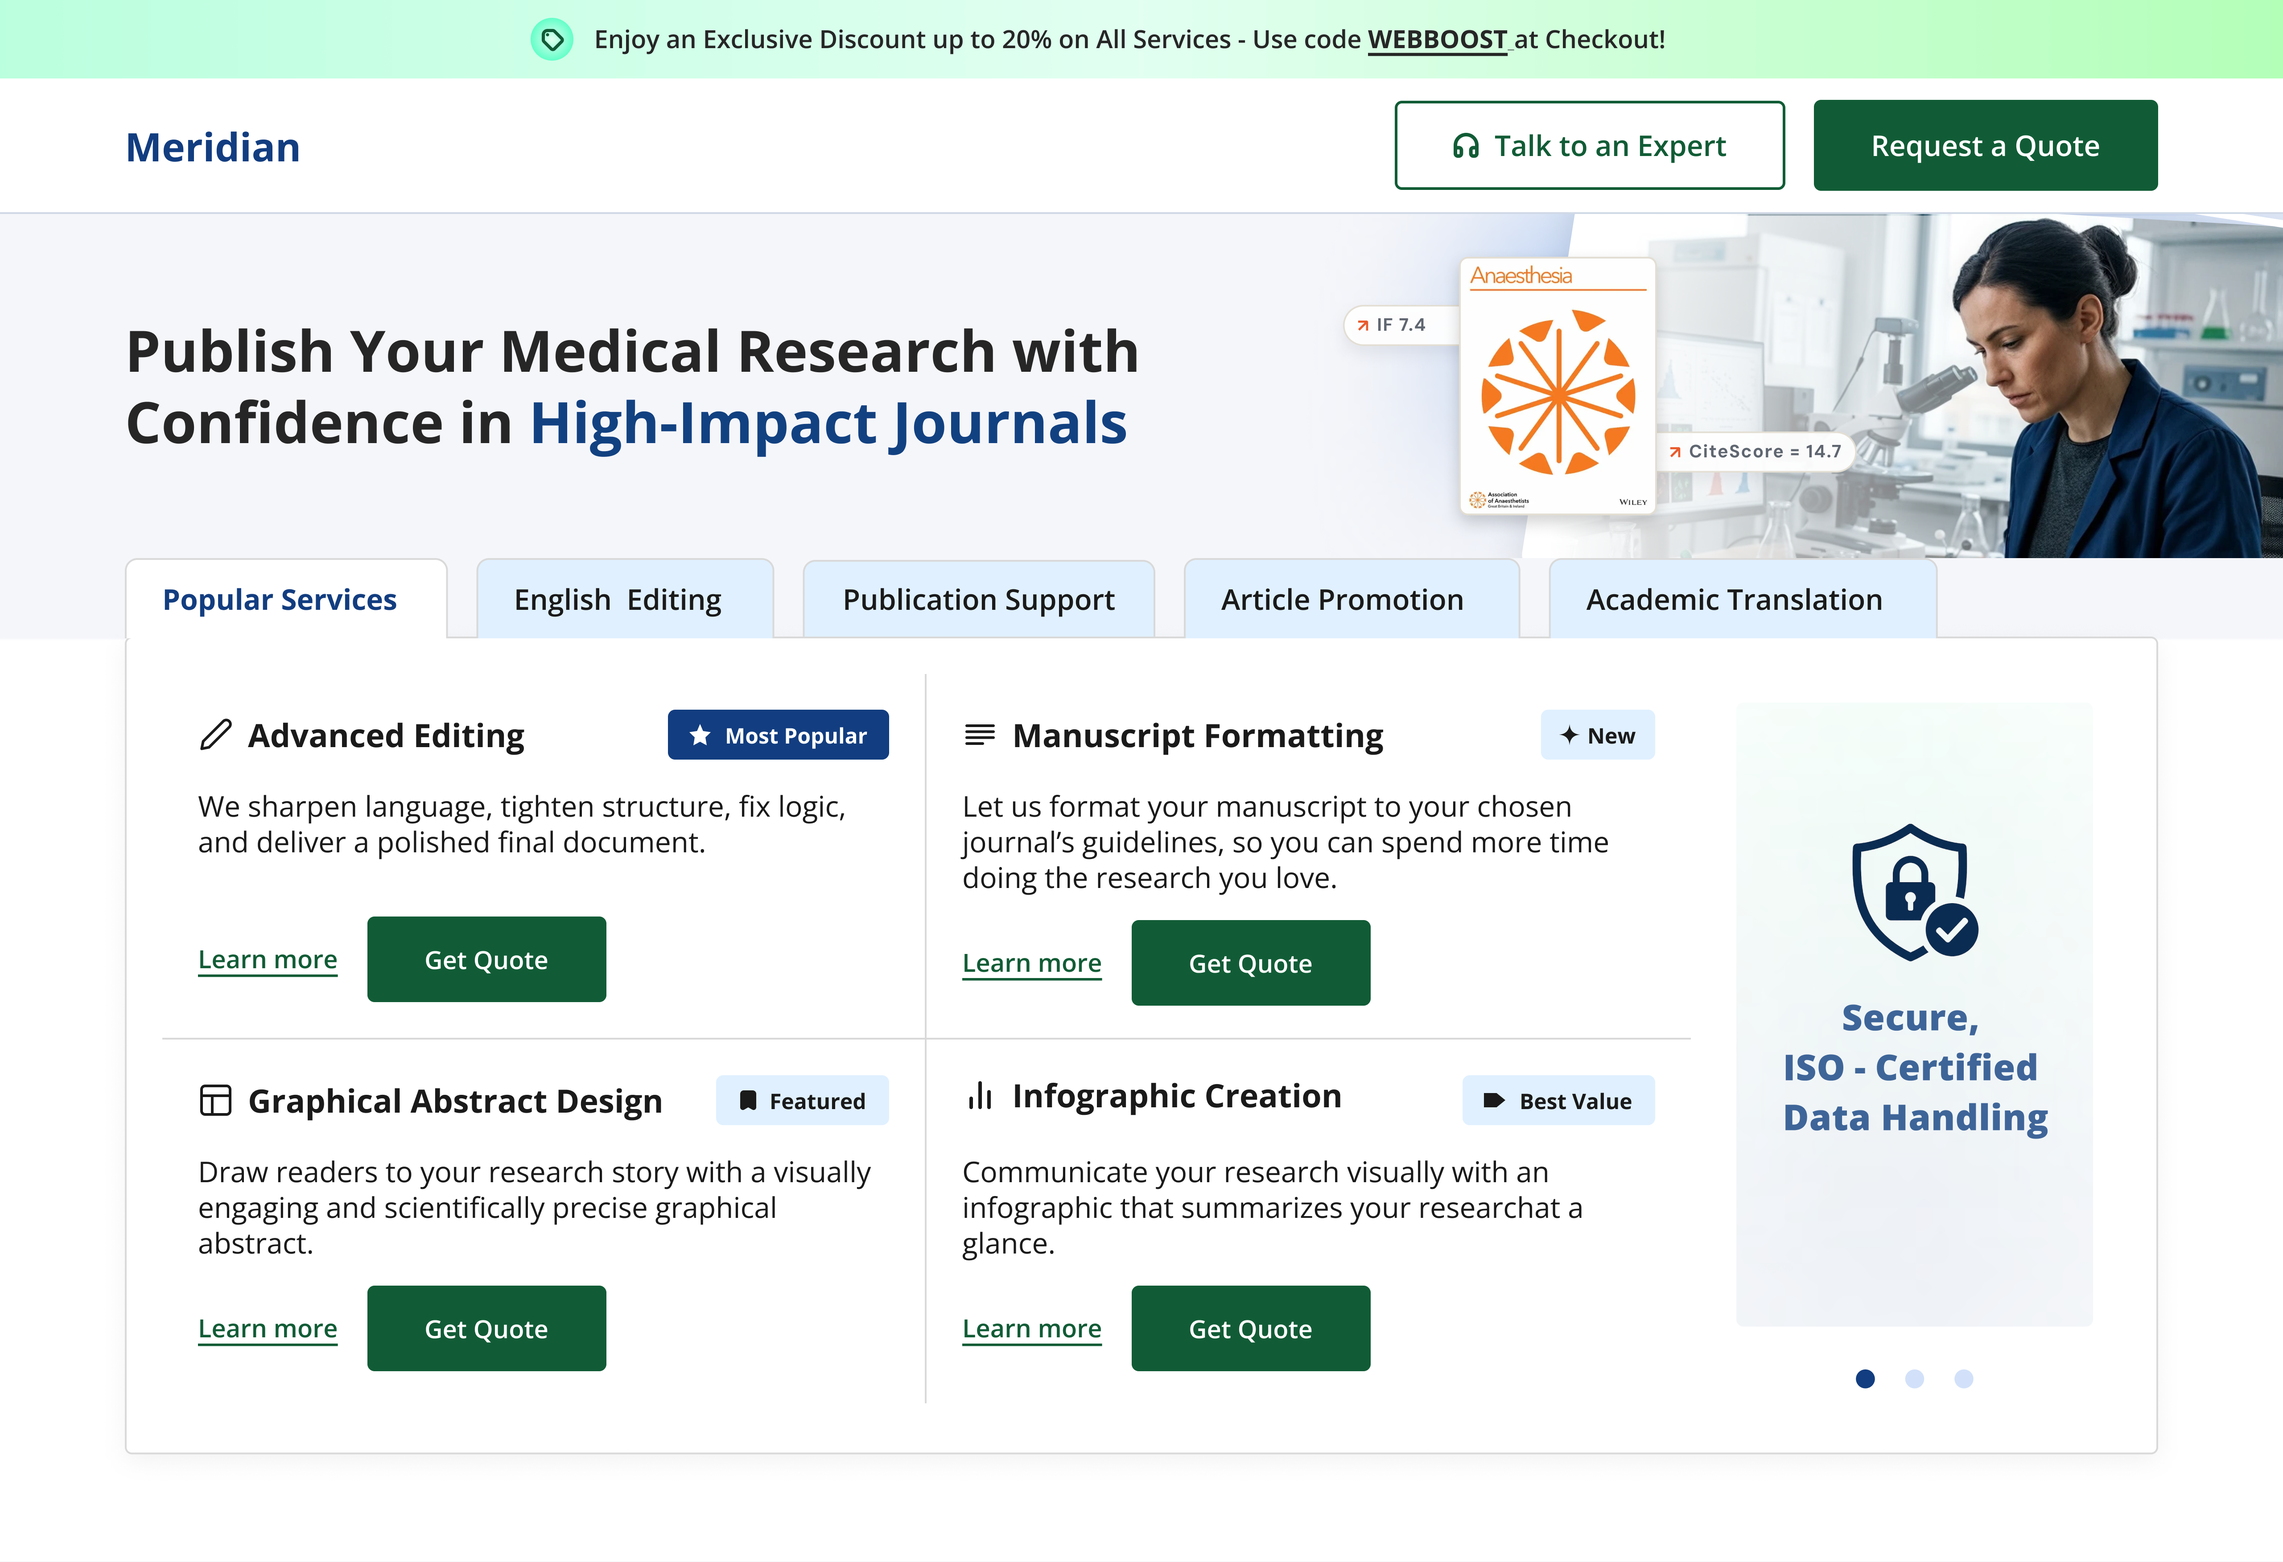
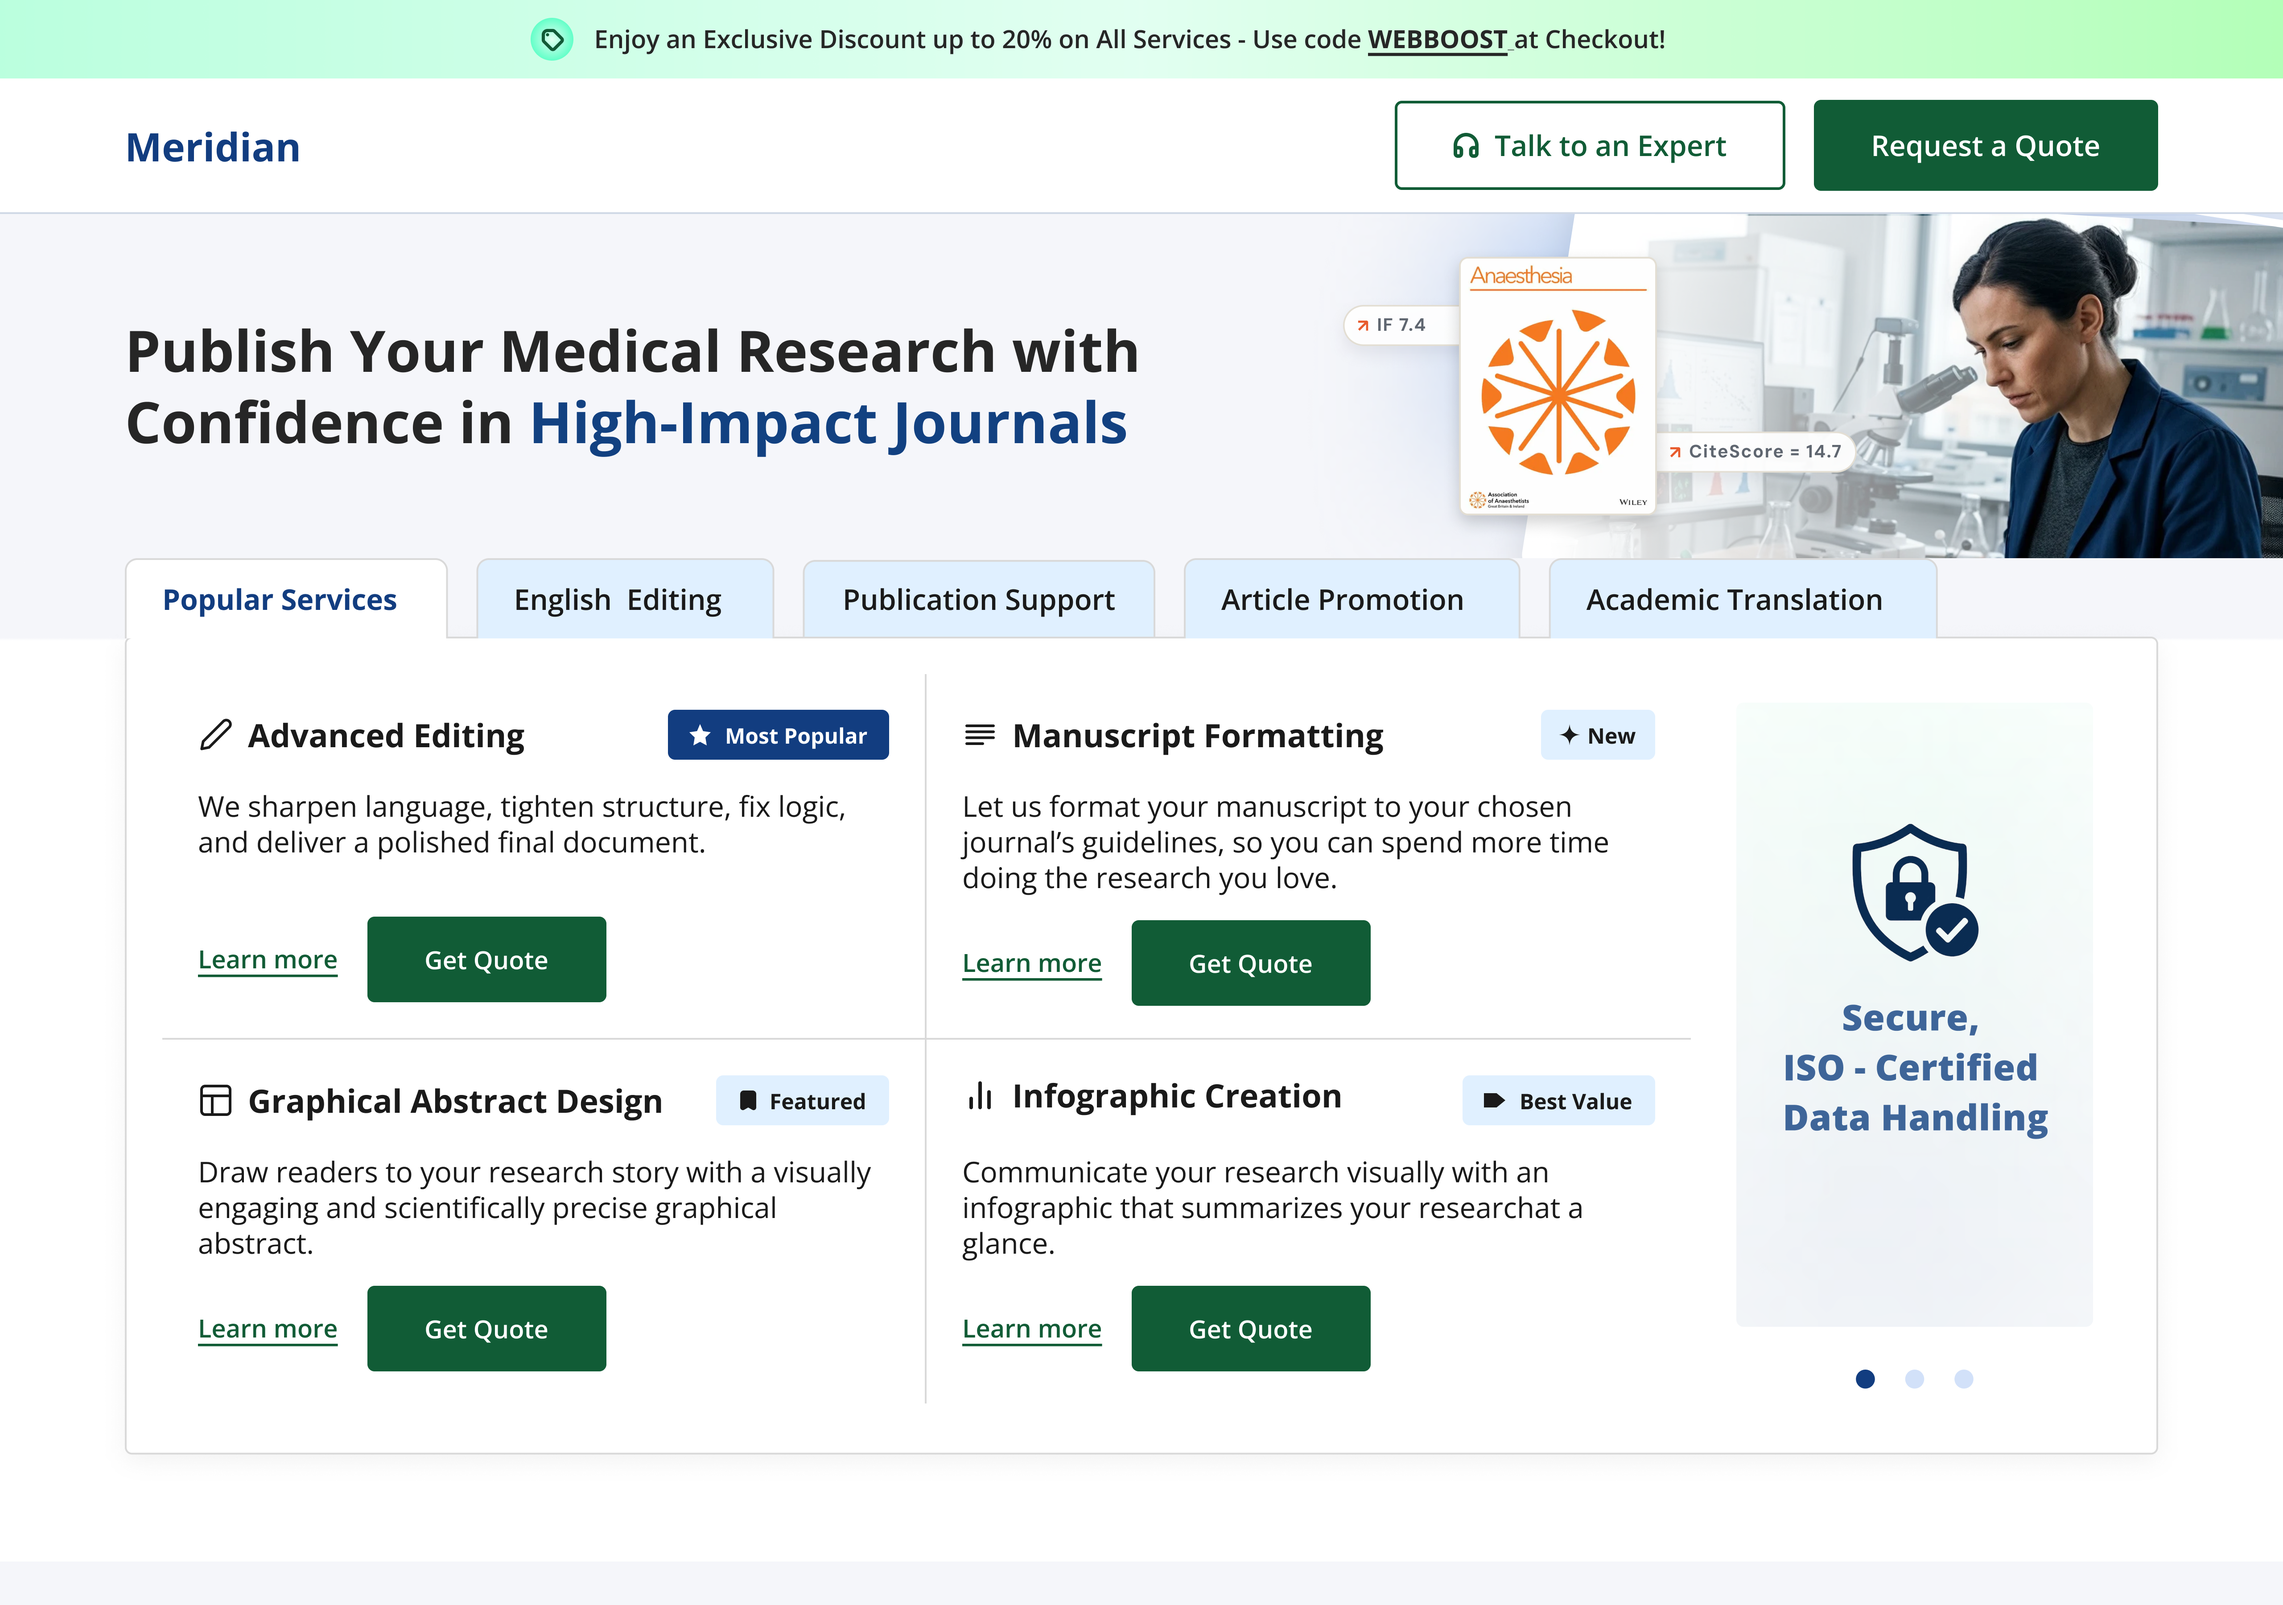
Remove Library/Paid/Organic pills from abstract

diff --git a/client/pages/Index.tsx b/client/pages/Index.tsx
@@ -81,7 +81,7 @@ export default function Index() {
 
     <div className="journey"><div><b>1</b><strong>Jul 3</strong><span>Kickoff</span><small>Brief, stakeholders, and success metrics</small></div><div><b>2</b><strong>Jul 5–7</strong><span>Diagnosis</span><small>Clarity review and fold mapping</small></div><div><b>3</b><strong>Jul 8–16</strong><span>Revision</span><small>Hero cut, tabs rebuilt, card grid shipped</small></div><div><b>4</b><strong>Jul 17–20</strong><span>Launch</span><small>Dev handoff and production release</small></div></div>
 
-    <section className="abstract"><div className="doc-row"><aside className="margin-col"><span className="sec-num">Abstract</span></aside><div className="content-col"><div className="abstract-box"><strong>The problem.</strong> The page opened with a big hero. Services were hidden below it, behind gray service tabs that made one option look already chosen. Most visitors never scrolled past this first screen.<br /><br /><span className="abstract-sources"><span>Library</span><span>Paid</span><span>Organic</span></span><br /><br /><strong>The fix.</strong> Rebuilt the first fold to lead with services, equalized tab weight, and shipped a dev-ready page in under a month.</div></div></div></section>
+    <section className="abstract"><div className="doc-row"><aside className="margin-col"><span className="sec-num">Abstract</span></aside><div className="content-col"><div className="abstract-box"><strong>The problem.</strong> The page opened with a big hero. Services were hidden below it, behind gray service tabs that made one option look already chosen. Most visitors never scrolled past this first screen.<br /><br /><strong>The fix.</strong> Rebuilt the first fold to lead with services, equalized tab weight, and shipped a dev-ready page in under a month.</div></div></div></section>
 
     <figure className="fig">
       <span className="tag">Figma - Design File</span>
